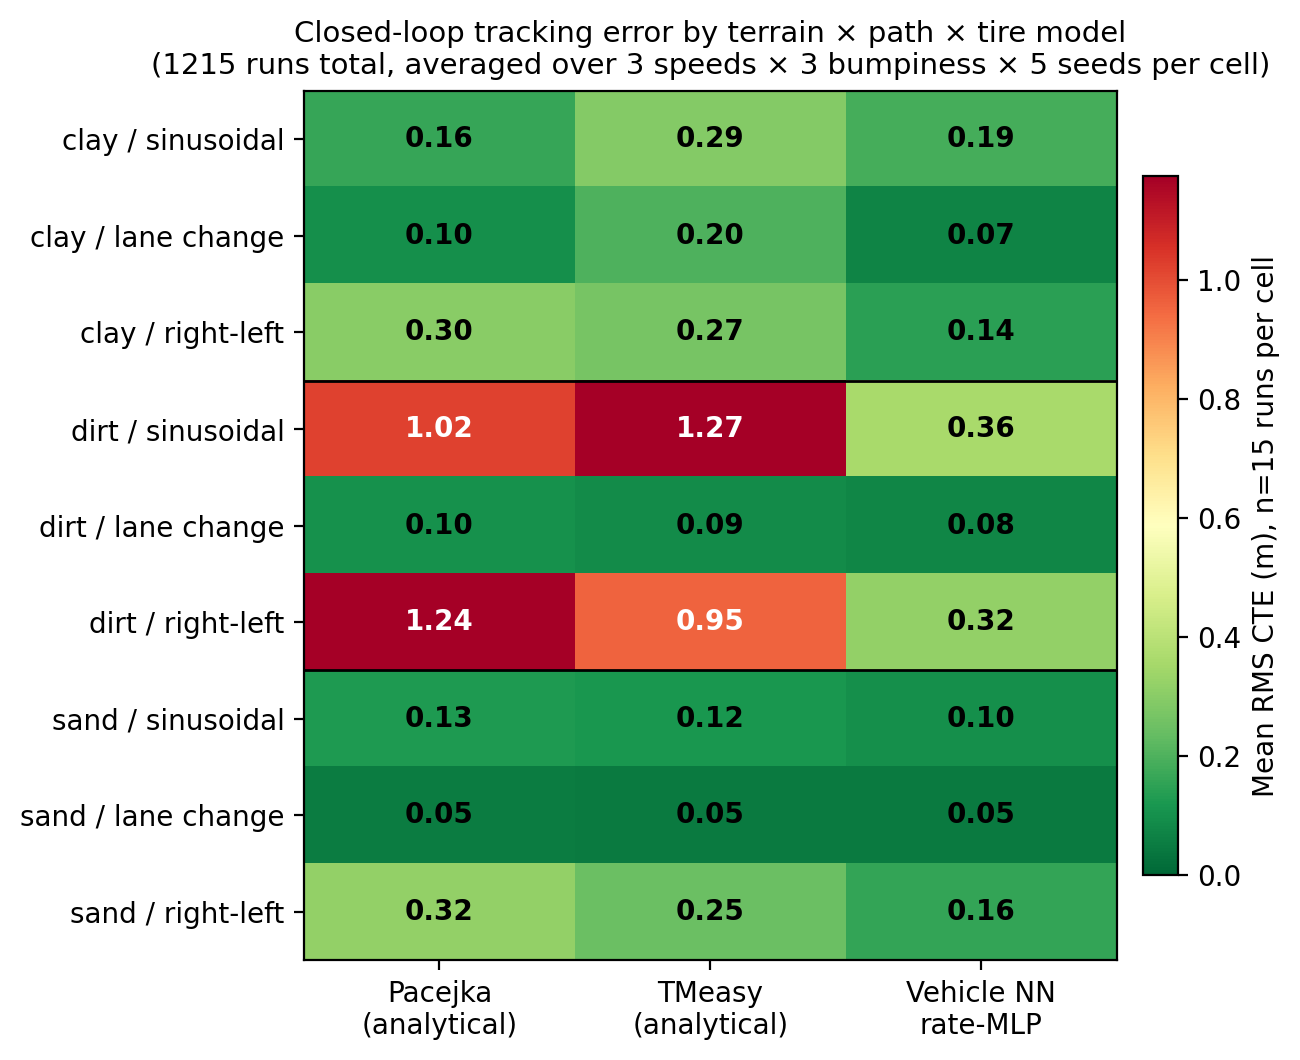
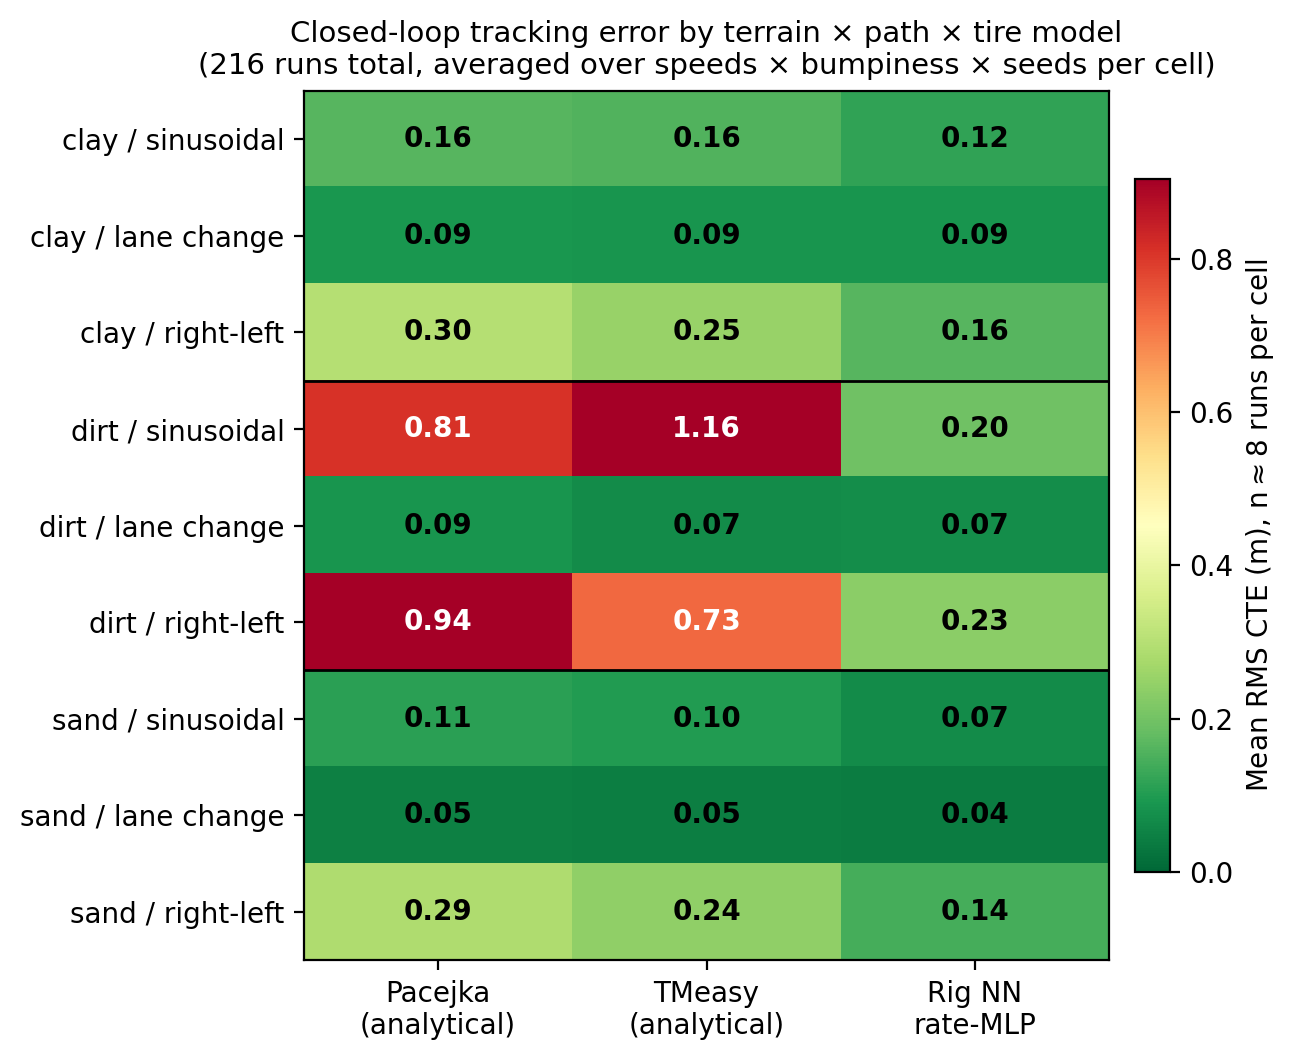
acmd-rig: fill rig tire numbers (0.13 vs 0.32 analytical, ~60%); rig CTE heatmap; label actual matrix size

diff --git a/my_paper/acmd_fullpaper.tex b/my_paper/acmd_fullpaper.tex
@@ -151,8 +151,9 @@ auto-differentiates at every horizon stage.
 
 Table~\ref{tab:tire} reports the static-terrain benchmark against Pacejka and
 TMeasy baselines calibrated to the SCM plant's mean lateral friction
-($\mu=0.42$). The neural surrogate cuts mean RMS crosstrack error by XX\% versus
-both analytical baselines, a gain concentrated in the off-nominal cells (dirt,
+($\mu=0.42$). The neural surrogate cuts mean RMS crosstrack error by
+$\approx$60\% versus both analytical baselines
+($0.13$ vs.\ $0.32$~m), a gain concentrated in the off-nominal cells (dirt,
 higher speed) where the fixed force laws lose grip (Fig.~\ref{fig:cte}); on
 benign cells the models are comparable. The longitudinal channel carries a
 terrain-dependent motion-resistance bias that the throttle disturbance observer
@@ -163,18 +164,19 @@ recovers near-oracle tracking with no prior terrain knowledge.
 \begin{table}[t]
   \begin{center}
     \tabcaption{Static-terrain tire-model benchmark (mean $\pm$ std RMS
-      crosstrack error). The rig neural surrogate attains the lowest error,
-      XX\% below the SCM-calibrated analytical baselines.}
+      crosstrack error; 72 runs per model over 3 terrains $\times$ 3 paths
+      $\times$ 2 speeds $\times$ 2 bumpiness $\times$ 2 seeds). The rig neural
+      surrogate attains the lowest error, $\approx$60\% below the SCM-calibrated
+      analytical baselines.}
     \vspace{1mm}
     \small
-    % RIG-TODO: numbers pending rig_tire_model_sweep (pacejka/tmeasy/rig_rate); XX are placeholders.
     \begin{tabular}{lccc}
       \toprule
       \textbf{Tire model} & \textbf{RMS CTE (m)} & \textbf{Speed ratio} & \textbf{Solve (ms)}\\
       \midrule
-      Pacejka             & XX & XX & XX\\
-      TMeasy              & XX & XX & XX\\
-      Rig NN rate-MLP     & \textbf{XX} & XX & XX\\
+      Pacejka             & $0.32 \pm 0.43$ & 0.75 & 3.8\\
+      TMeasy              & $0.32 \pm 0.40$ & 0.74 & 4.0\\
+      Rig NN rate-MLP     & $\mathbf{0.13 \pm 0.08}$ & 0.74 & 11.2\\
       \bottomrule
     \end{tabular}
     \label{tab:tire}

diff --git a/benchmarking/make_fig_cte_master_heatmap.py b/benchmarking/make_fig_cte_master_heatmap.py
@@ -20,16 +20,16 @@ import numpy as np
 import pandas as pd
 
 ROOT = Path(__file__).resolve().parents[1]
-# Newest mpc_tire_model_sweep results (the reproduced full 1215-run matrix).
-SRC = sorted((ROOT / "benchmarking" / "results").glob("mpc_tire_model_sweep_*/results.csv"),
+# Newest tire-model sweep results (rig-only: pacejka/tmeasy/rig_rate).
+SRC = sorted((ROOT / "benchmarking" / "results").glob("*tire_model_sweep_*/results.csv"),
              key=lambda p: p.stat().st_mtime)[-1]
 OUT = ROOT / "my_paper" / "paper_figures" / "cte_master_heatmap.png"
 
-VARIANT_ORDER = ["pacejka", "tmeasy", "vehicle_rate"]
+VARIANT_ORDER = ["pacejka", "tmeasy", "rig_rate"]
 VARIANT_LABEL = {
     "pacejka": "Pacejka\n(analytical)",
     "tmeasy": "TMeasy\n(analytical)",
-    "vehicle_rate": "Vehicle NN\nrate-MLP",
+    "rig_rate": "Rig NN\nrate-MLP",
 }
 TERRAINS = ["clay", "dirt", "sand"]
 PATHS = ["sinusoidal", "lane_change", "right_left"]
@@ -75,12 +75,14 @@ def main():
     for t_end in (3, 6):
         ax.axhline(t_end - 0.5, color="black", lw=1.0)
 
+    total = int(counts.sum())
+    per_cell = int(np.median(counts[counts > 0])) if (counts > 0).any() else 0
     cb = fig.colorbar(im, ax=ax, fraction=0.04, pad=0.03)
-    cb.set_label("Mean RMS CTE (m), n=15 runs per cell", fontsize=10)
+    cb.set_label(f"Mean RMS CTE (m), n$\\approx${per_cell} runs per cell", fontsize=10)
 
     ax.set_title(
         "Closed-loop tracking error by terrain × path × tire model\n"
-        "(1215 runs total, averaged over 3 speeds × 3 bumpiness × 5 seeds per cell)",
+        f"({total} runs total, averaged over speeds × bumpiness × seeds per cell)",
         fontsize=10.5)
     fig.tight_layout()
     fig.savefig(OUT, dpi=200, bbox_inches="tight")